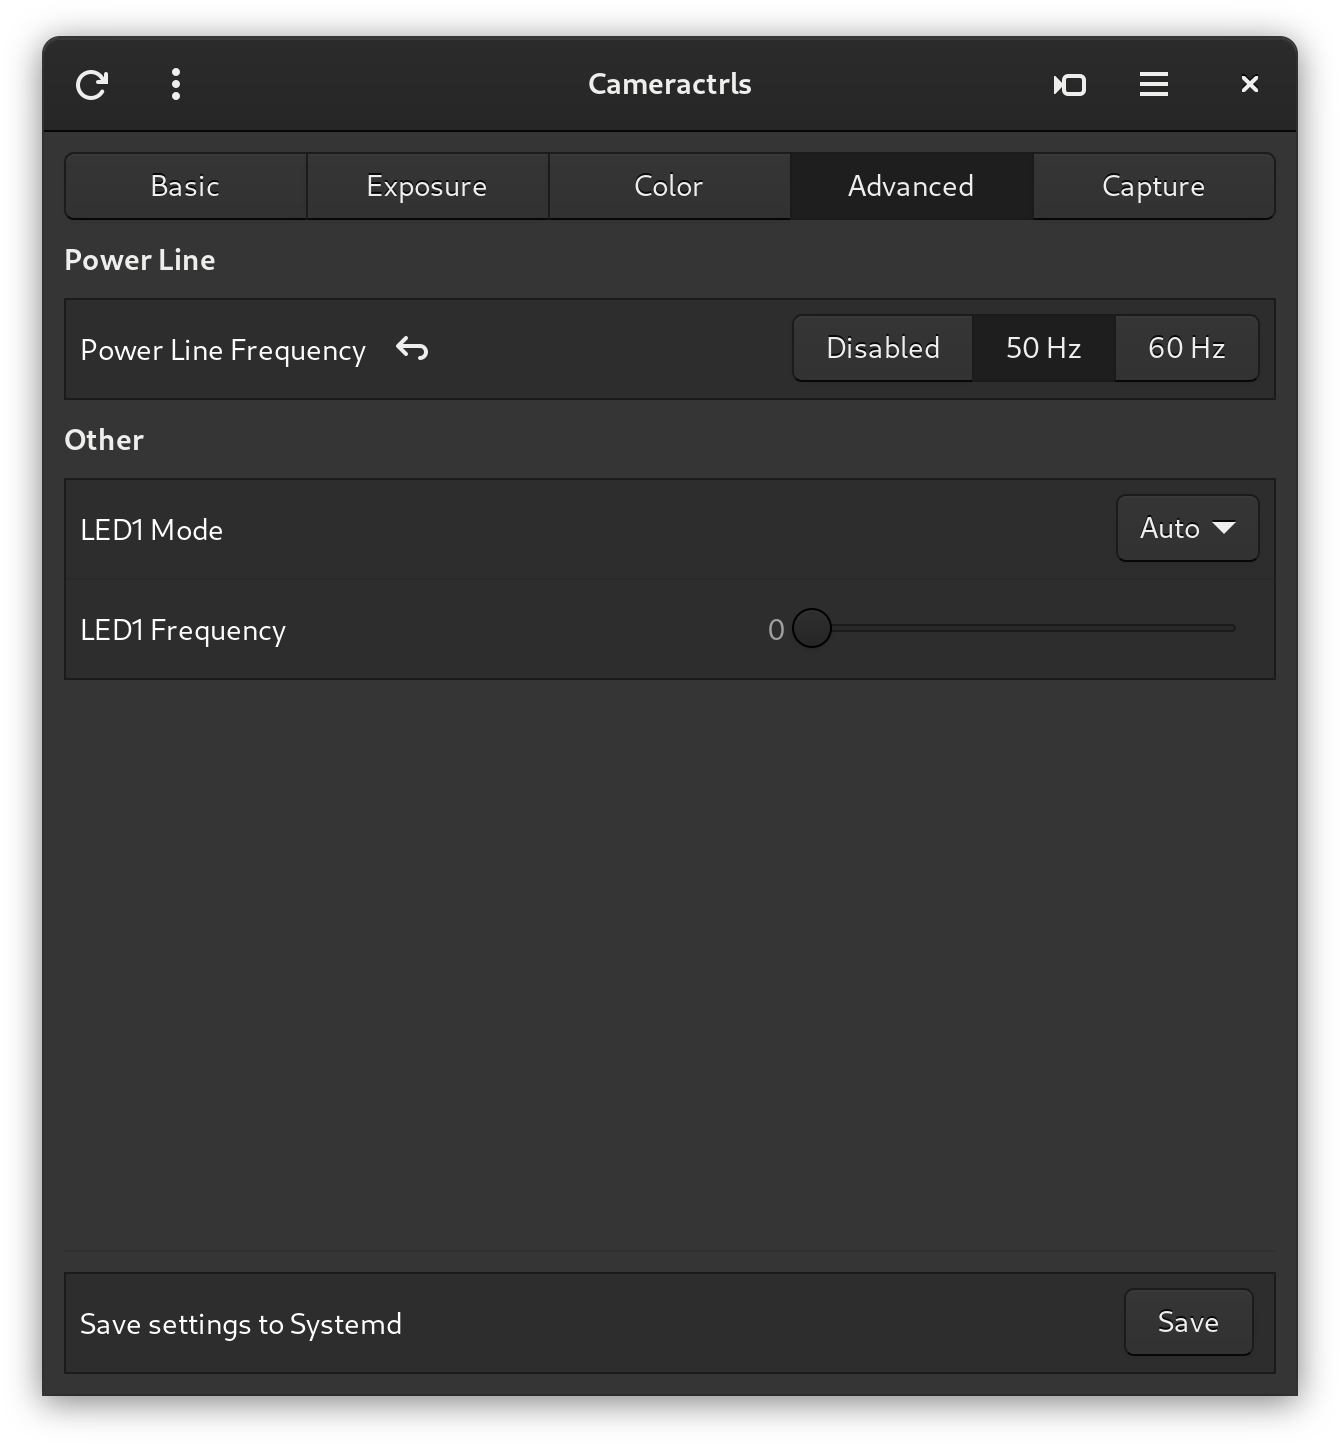
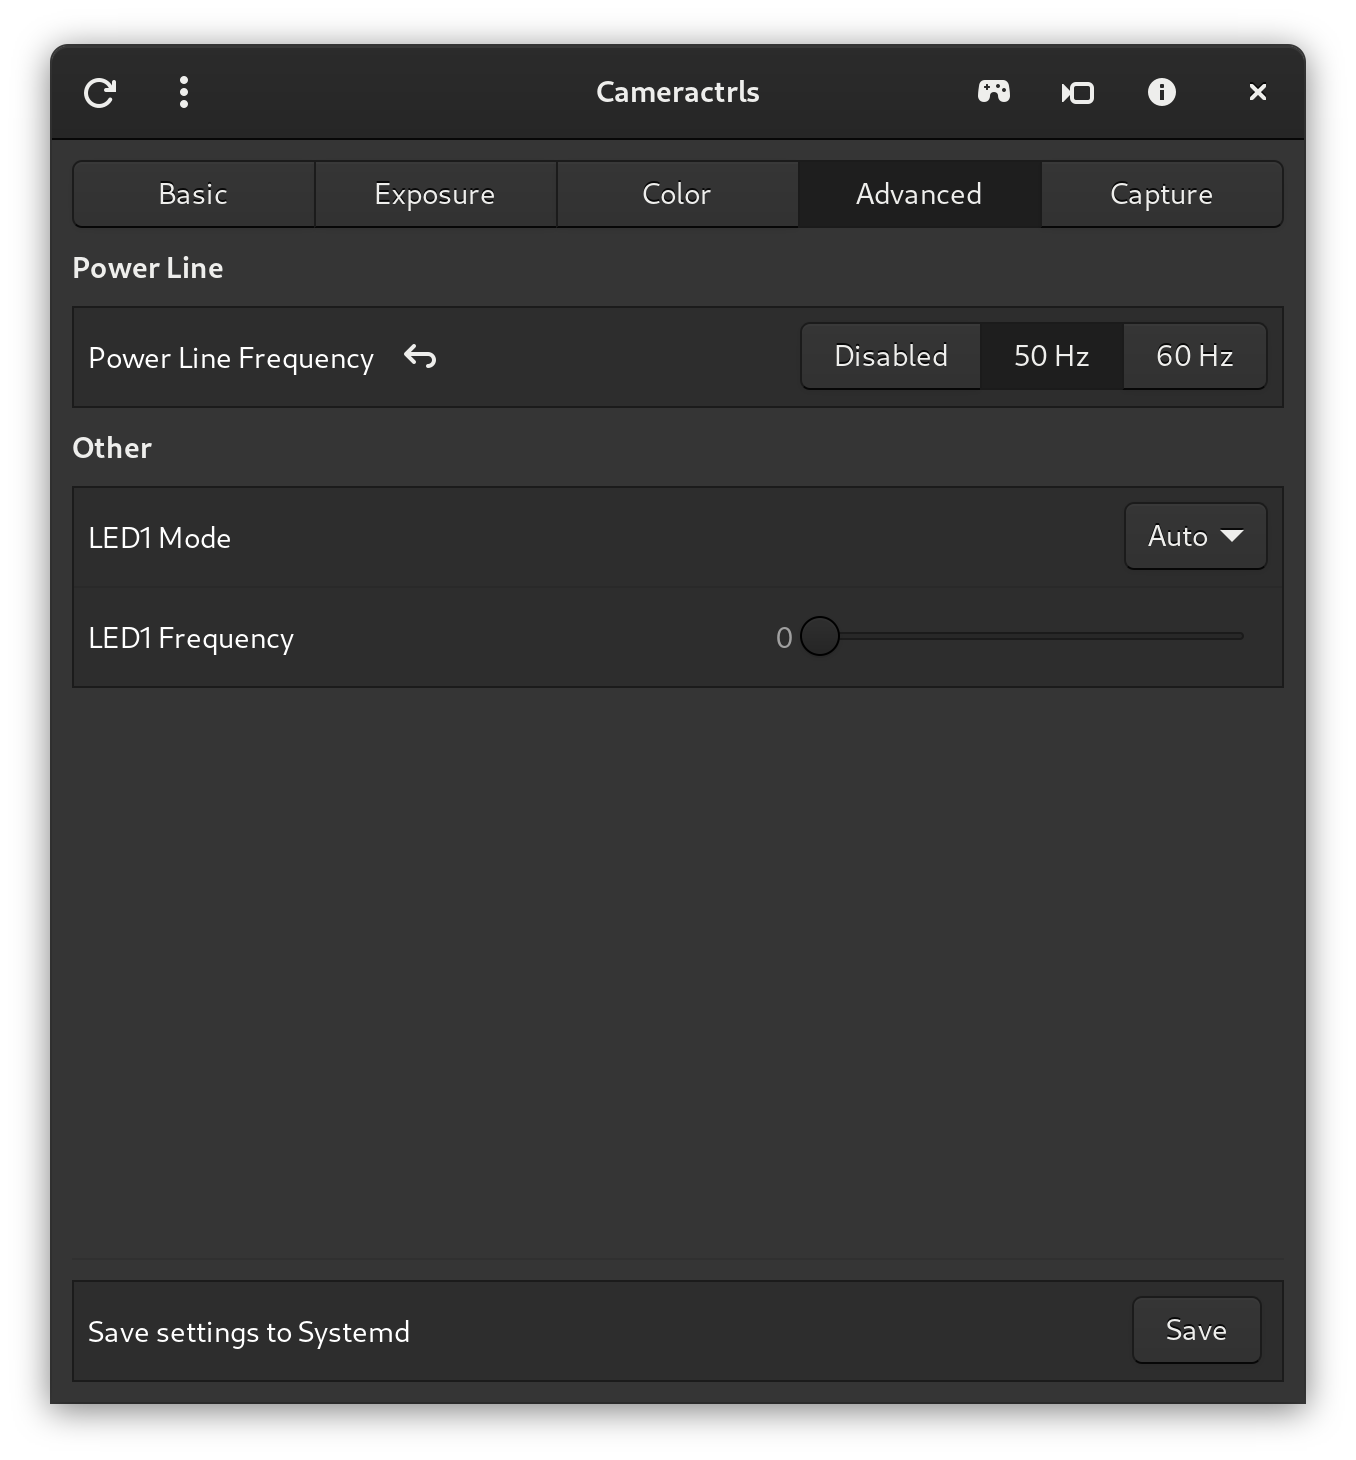
update changelog and screenshots

diff --git a/CHANGELOG.md b/CHANGELOG.md
@@ -4,9 +4,15 @@
 
 ### Added
  - 3DConnexion SpaceMouse support to control PTZ cameras
+ - Game Controllers (PS DualSense/Xbox/etc) support to control PTZ cameras
+ - MIDI Controllers (MPK Mini or any configurable) support to control PTZ cameras
  - Use Page Up/Page Down for Zoom also (PTZ)
  - Keyboard controls for Absolute PTZ
  - Alt+PresetNum shortcuts for PTZ presets
+ - Tooltips for headerbar icons
+
+### Changed
+ - Replaced Hamburger menu with About icon
 
 ### Fixed
  - Fix Ctrl detection in PTZ controls
